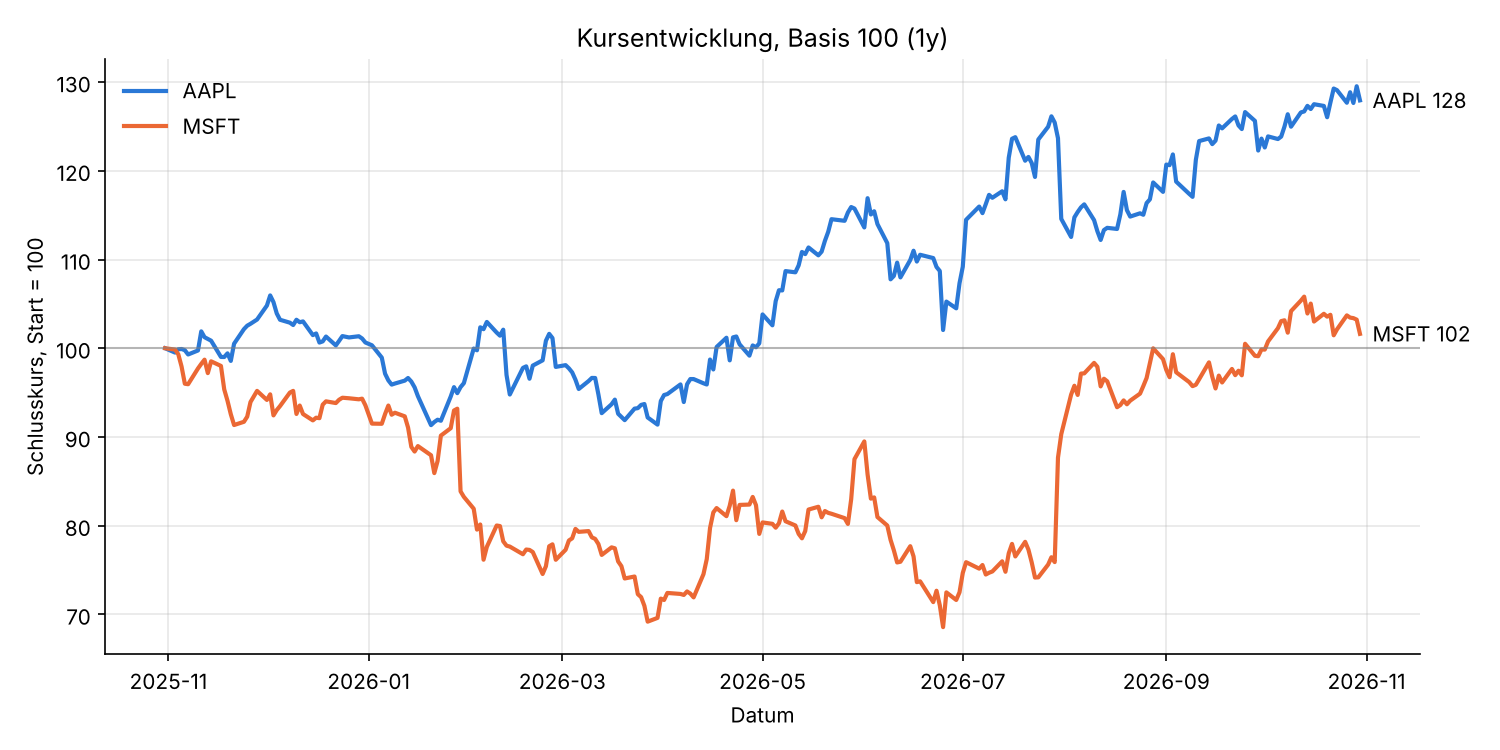
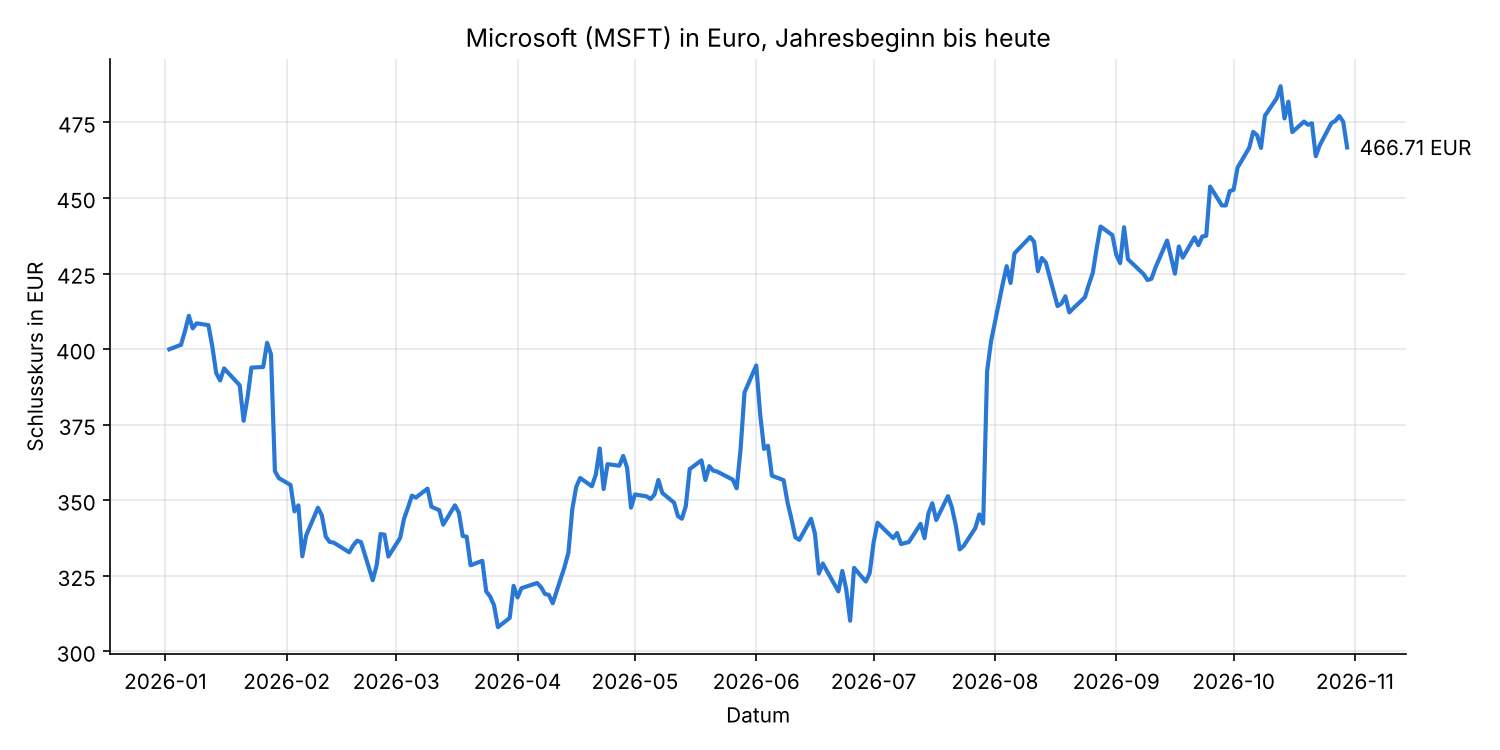
feat: plot MSFT year-to-date in euro
Convert daily USD closes with the same-day EUR/USD rate (forward-filled
across the FX calendar). Drop the multi-symbol options, only MSFT is needed.

Claude-Session: https://claude.ai/code/session_01XM3y3Co3bpwVhAYVShkMYQ

diff --git a/data_exploration/plot_prices.py b/data_exploration/plot_prices.py
@@ -1,74 +1,58 @@
-"""Plot the price development of stocks from Yahoo Finance on a time axis.
+"""Plot the year-to-date price of the Microsoft stock in euro.
 
-Prices are indexed to 100 at the start of the period so that stocks with
-different price levels (e.g. AAPL vs. MSFT) share one y-axis.
+Yahoo Finance quotes MSFT in USD. Each daily close is converted with the
+EUR/USD rate of the same day.
 
 Usage::
 
-    python data_exploration/plot_prices.py AAPL MSFT --period 1y
+    python data_exploration/plot_prices.py
 """
-
-import argparse
 
 import matplotlib.pyplot as plt
 import yfinance as yf
 
-# Categorical colors in fixed order (blue, orange), light-surface variants.
-COLORS = ["#2a78d6", "#eb6834"]
+COLOR = "#2a78d6"
 
 
-def load_indexed_close(symbols, period):
-    """Download daily closing prices and index them to 100 at the first day.
+def load_msft_eur():
+    """Download the year-to-date daily MSFT close and convert it to euro.
 
-    :param symbols: ticker symbols, e.g. ``["AAPL", "MSFT"]``
-    :param period: yfinance period string, e.g. ``"1y"``
-    :return: DataFrame with one column per symbol, starting at 100
+    :return: Series with the MSFT closing price in EUR per trading day
     """
-    close = yf.download(symbols, period=period, interval="1d", progress=False)["Close"]
-    return close / close.iloc[0] * 100
+    close = yf.download(
+        ["MSFT", "EURUSD=X"], period="ytd", interval="1d", progress=False
+    )["Close"]
+    # The FX series has its own trading calendar, so fill gaps before dividing.
+    close["EURUSD=X"] = close["EURUSD=X"].ffill()
+    return (close["MSFT"] / close["EURUSD=X"]).dropna()
 
 
-def plot(indexed, period, path):
-    """Draw one line per symbol with end labels and save the figure.
+def plot(price_eur, path):
+    """Draw the price line with a marker on the last value and save it.
 
-    :param indexed: DataFrame from :func:`load_indexed_close`
-    :param period: period string, used in the title
+    :param price_eur: Series from :func:`load_msft_eur`
     :param path: output PNG path
     :return: None
     """
     fig, ax = plt.subplots(figsize=(10, 5))
-    for color, symbol in zip(COLORS, indexed.columns):
-        ax.plot(indexed.index, indexed[symbol], color=color, linewidth=2, label=symbol)
-        ax.annotate(
-            f"{symbol} {indexed[symbol].iloc[-1]:.0f}",
-            (indexed.index[-1], indexed[symbol].iloc[-1]),
-            xytext=(6, 0),
-            textcoords="offset points",
-            va="center",
-        )
-    ax.axhline(100, color="gray", linewidth=1, alpha=0.5)
-    ax.set_title(f"Kursentwicklung, Basis 100 ({period})")
+    ax.plot(price_eur.index, price_eur, color=COLOR, linewidth=2)
+    ax.annotate(
+        f"{price_eur.iloc[-1]:.2f} EUR",
+        (price_eur.index[-1], price_eur.iloc[-1]),
+        xytext=(6, 0),
+        textcoords="offset points",
+        va="center",
+    )
+    ax.set_title("Microsoft (MSFT) in Euro, Jahresbeginn bis heute")
     ax.set_xlabel("Datum")
-    ax.set_ylabel("Schlusskurs, Start = 100")
+    ax.set_ylabel("Schlusskurs in EUR")
     ax.grid(alpha=0.3)
     ax.spines[["top", "right"]].set_visible(False)
-    ax.legend(frameon=False, loc="upper left")
     fig.tight_layout()
     fig.savefig(path, dpi=150)
 
 
-def main():
-    """Parse arguments, download the data and save the plot.
-
-    :return: None
-    """
-    parser = argparse.ArgumentParser(description=__doc__.splitlines()[0])
-    parser.add_argument("symbols", nargs="*", default=["AAPL", "MSFT"])
-    parser.add_argument("--period", default="1y")
-    parser.add_argument("--out", default="data_exploration/prices.png")
-    args = parser.parse_args()
-    plot(load_indexed_close(args.symbols, args.period), args.period, args.out)
-
-
 if __name__ == "__main__":
-    main()
+    series = load_msft_eur()
+    plot(series, "data_exploration/prices.png")
+    print(series.describe())
